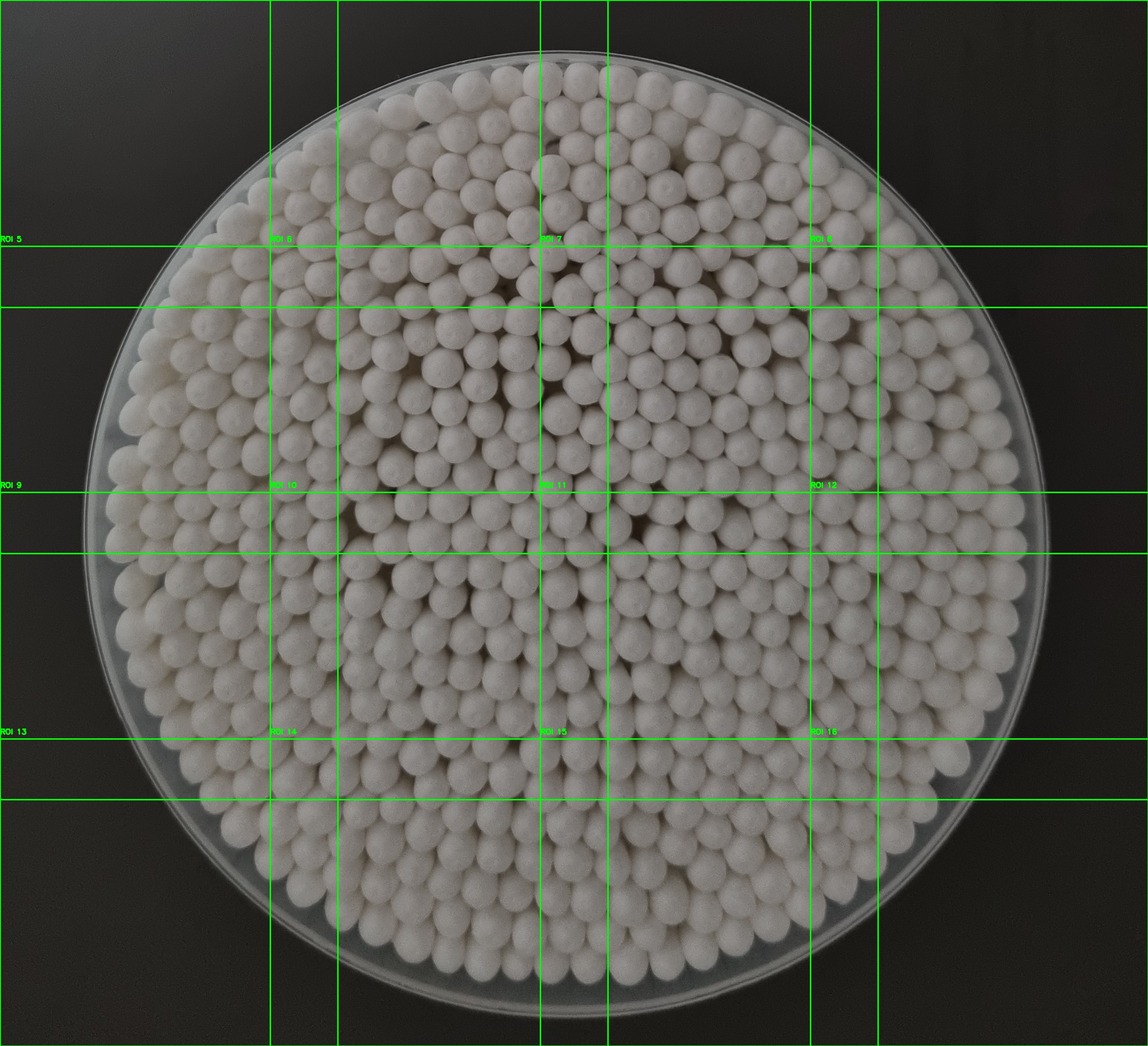
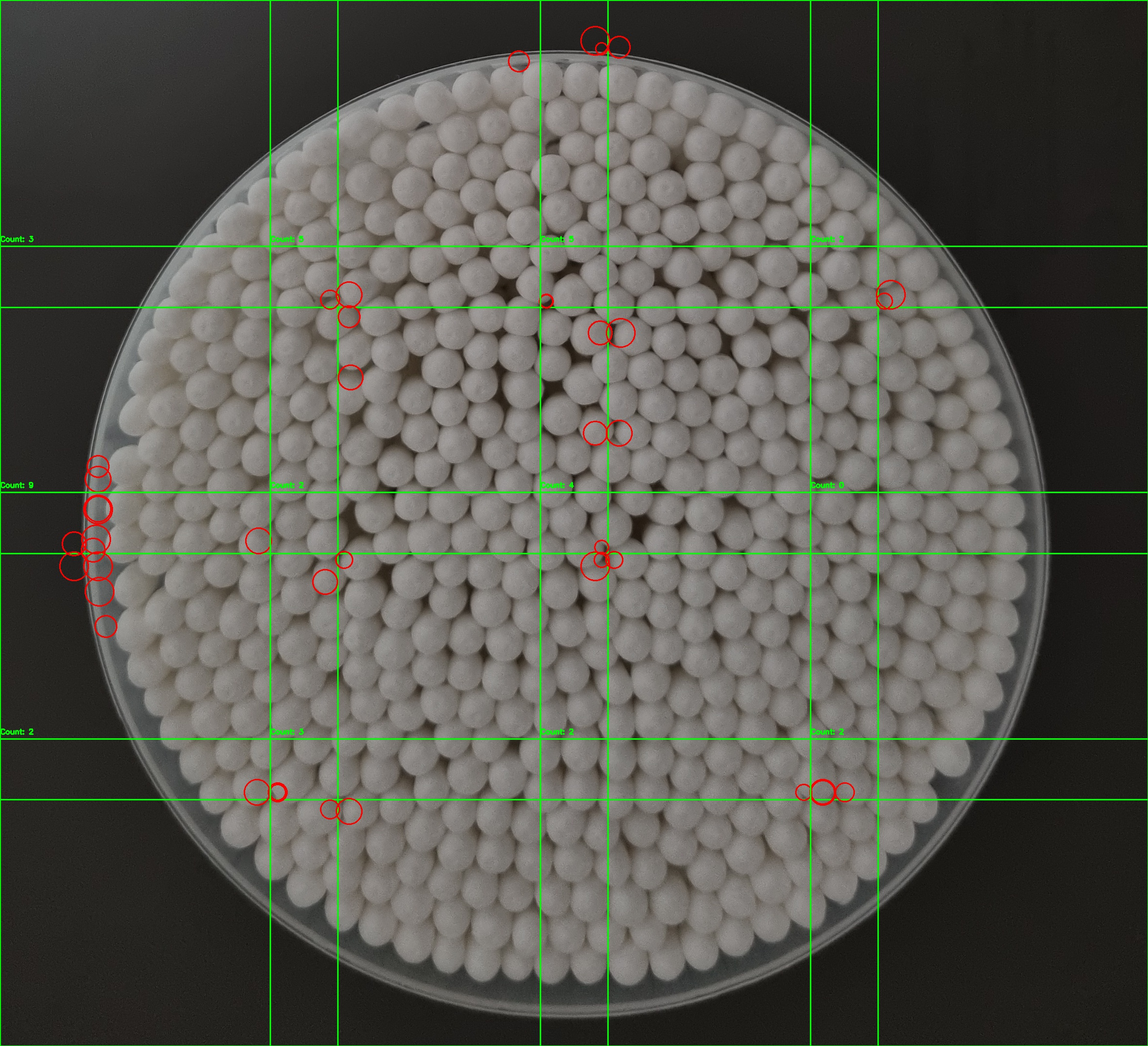
클로드 3차

diff --git a/팀플/1003_claude.py b/팀플/1003_claude.py
@@ -1,5 +1,7 @@
 import cv2
 import numpy as np
+import tkinter as tk
+from tkinter import filedialog
 
 def load_image(image_path):
     return cv2.imread(image_path)
@@ -10,17 +12,14 @@ def create_roi(image, roi_size, overlap=0.2):
     
     step_y = (height - roi_height) / 3
     step_x = (width - roi_width) / 3
-        
+    
     roi_list = []
     for i in range(4):
         for j in range(4):
             y = int(i * step_y)
             x = int(j * step_x)
-            
-            # ROI가 이미지 경계를 벗어나지 않도록 조정
             y = min(y, height - roi_height)
             x = min(x, width - roi_width)
-            
             roi = image[y:y+roi_height, x:x+roi_width]
             roi_list.append((roi, (x, y)))
     
@@ -32,52 +31,57 @@ def preprocess_roi(roi):
     edges = cv2.Canny(blurred, 50, 150)
     return edges
 
-def detect_cotton_swabs(roi, min_radius=10, max_radius=30):
+def detect_cotton_swabs(roi, min_radius, max_radius, param1, param2):
     edges = preprocess_roi(roi)
-    circles = cv2.HoughCircles(edges, cv2.HOUGH_GRADIENT, dp=1, minDist=20,
-                               param1=50, param2=30, minRadius=min_radius, maxRadius=max_radius)
+    circles = cv2.HoughCircles(edges, cv2.HOUGH_GRADIENT, dp=1.3, minDist=18,
+                               param1=param1, param2=param2, 
+                               minRadius=min_radius, maxRadius=max_radius)
     
     if circles is not None:
         circles = np.round(circles[0, :]).astype("int")
-        return len(circles)
-    return 0
+        return circles
+    return []
 
-def main():
-    # 이미지 경로 설정
-    image_path = "mb_001.jpg"
-    
-    # 이미지 불러오기
+def process_image(image_path, min_radius, max_radius, param1, param2):
     image = load_image(image_path)
-    
     if image is None:
         print("이미지를 불러오는 데 실패했습니다.")
         return
     
-    # ROI 크기 계산
     height, width = image.shape[:2]
     roi_size = (int(height * 5/17), int(width * 5/17))
-    
-    # ROI 생성
     roi_list = create_roi(image, roi_size)
     
-    print(f"생성된 ROI 개수: {len(roi_list)}")
-    
-    # 각 ROI에 대해 면봉 검출
     total_cotton_swabs = 0
     for roi, (x, y) in roi_list:
-        cotton_swabs = detect_cotton_swabs(roi)
-        total_cotton_swabs += cotton_swabs
-    
-    # ROI 시각화 (디버깅 목적)
-    for idx, (roi, (x, y)) in enumerate(roi_list):
+        circles = detect_cotton_swabs(roi, min_radius, max_radius, param1, param2)
+        total_cotton_swabs += len(circles)
+        
+        # 검출된 원 그리기
+        for (cx, cy, r) in circles:
+            cv2.circle(image, (x + cx, y + cy), r, (0, 0, 255), 2)
+        
         cv2.rectangle(image, (x, y), (x + roi_size[1], y + roi_size[0]), (0, 255, 0), 2)
-        cv2.putText(image, f"ROI {idx+1}", (x, y - 10),
+        cv2.putText(image, f"Count: {len(circles)}", (x, y - 10),
                     cv2.FONT_HERSHEY_SIMPLEX, 0.5, (0, 255, 0), 2)
     
     print(f"검출된 총 면봉 개수: {total_cotton_swabs}")
-    
-    # 결과 이미지 저장 (옵션)
     cv2.imwrite("result.jpg", image)
+    cv2.imshow("Result", image)
+    cv2.waitKey(0)
+    cv2.destroyAllWindows()
+
+def main():
+    root = tk.Tk()
+    root.withdraw()
+    
+    image_path = filedialog.askopenfilename()
+    min_radius = int(input("최소 반지름 입력 (기본값 10): ") or 10)
+    max_radius = int(input("최대 반지름 입력 (기본값 30): ") or 30)
+    param1 = int(input("param1 입력 (기본값 50): ") or 50)
+    param2 = int(input("param2 입력 (기본값 30): ") or 30)
+    
+    process_image(image_path, min_radius, max_radius, param1, param2)
 
 if __name__ == "__main__":
     main()
